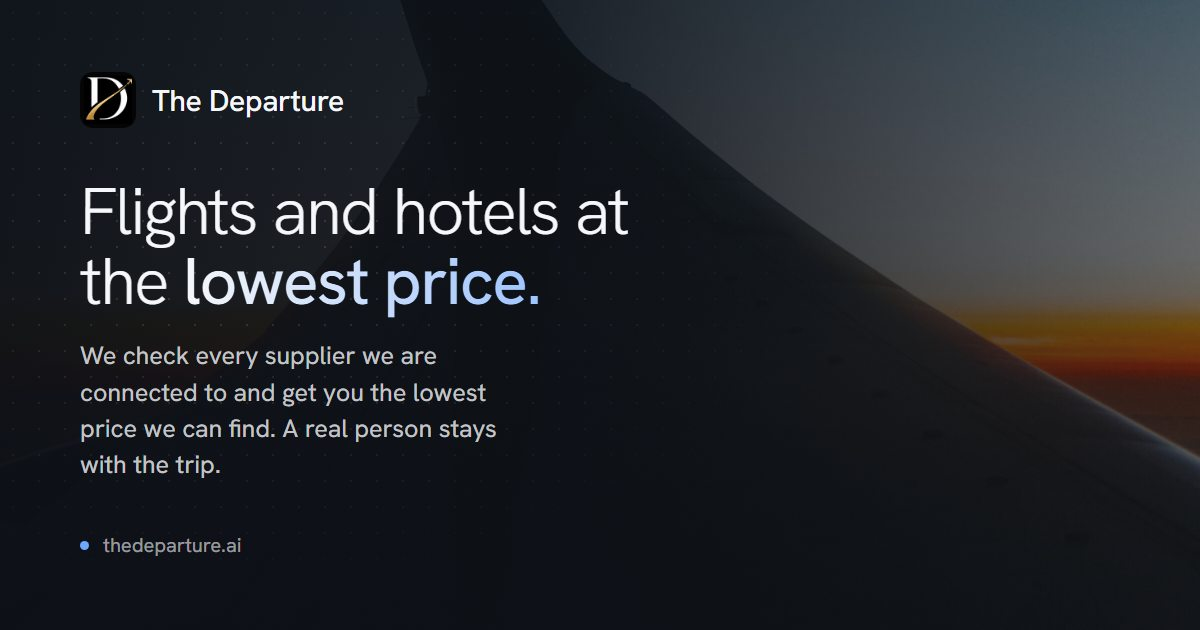
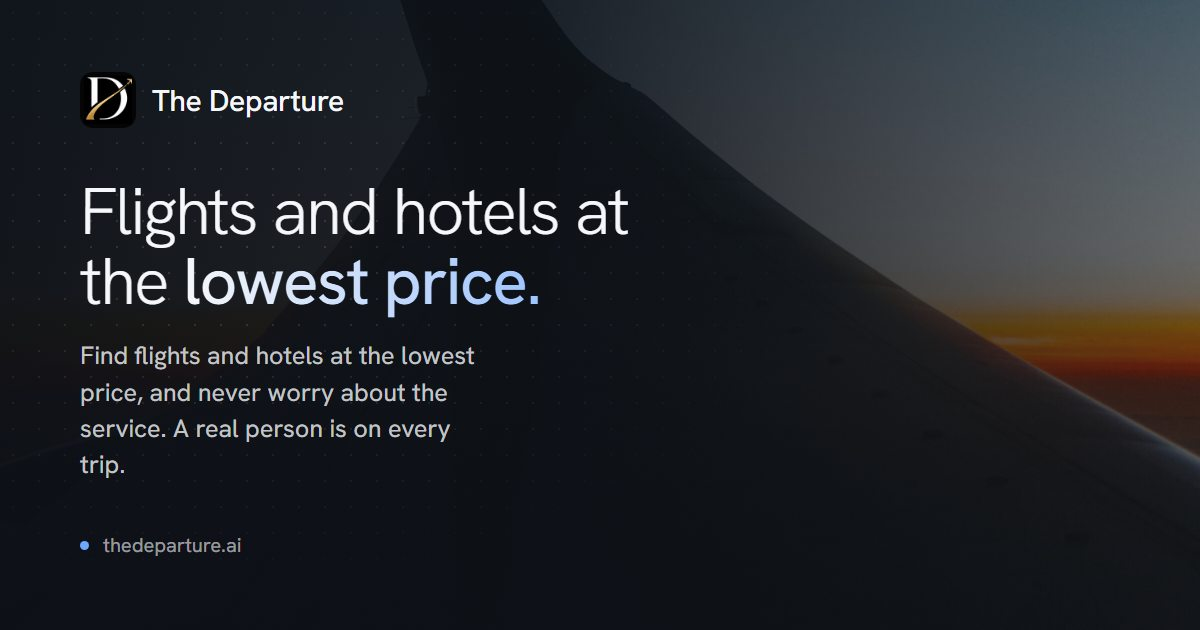
Never cache a failed supplier lookup, and rewrite the share preview text
The landing said "No live rates right now" while /results returned twelve
hotels for the same city, the same dates and the same key. Nothing was wrong
with LiteAPI. The showcase had cached the emptiness.

Each cached function caught its own errors INSIDE unstable_cache and returned
an empty list. unstable_cache stores whatever the function returns, so a single
transient miss was written to the cache and then served to every visitor for
the full TTL: fifteen minutes for the headline rows and six hours for the
destination prices. Vercel's data cache survives deployments, so redeploying
did not clear it either.

Now the fetch throws on an empty result and the catch lives outside the cache,
so failures are never written and the next visitor retries. Success is still
cached, which is the part that actually protects LiteAPI's look-to-book ratio:
there is no ratio to protect when the answer is empty.

CACHE_VERSION is in every key so this fix takes effect on deploy instead of
waiting out the poisoned entries it was written to fix.

Destination prices now catch per card rather than per row, so one city with no
fare cannot blank the other two.

Share preview text rewritten to lead with the promise rather than the
mechanism: "Find flights and hotels at the lowest price, and never worry about
the service. A real person is on every trip." Card image regenerated to match,
54KB.

Changed region(s): [[0.0617, 0.5429, 0.4317, 0.6937], [0.0617, 0.7238, 0.185, 0.754]]

diff --git a/lib/showcase.ts b/lib/showcase.ts
@@ -23,6 +23,15 @@ function isoDaysOut(days: number): string {
   return new Date(Date.now() + days * 864e5).toISOString().slice(0, 10);
 }
 
+const HOTEL_ADULTS = 2;
+
+function nightsBetween(checkin: string, checkout: string): number {
+  return Math.max(
+    1,
+    Math.round((new Date(checkout).getTime() - new Date(checkin).getTime()) / 864e5)
+  );
+}
+
 export interface ShowcaseFlights {
   route: { from: string; to: string; date: string };
   flights: ShoppedFlight[];
@@ -44,35 +53,58 @@ export interface ShowcaseHotels {
   error?: string;
 }
 
+// A failure must never be cached.
+//
+// These wrappers used to catch inside the cached function and return an empty
+// list. unstable_cache stores whatever the function returns, so one transient
+// supplier hiccup was written to the cache and then served to every visitor for
+// the whole TTL: fifteen minutes for the headline rows, SIX HOURS for the
+// destination prices. That is exactly how the landing page ended up saying "No
+// live rates right now" while /results returned twelve hotels for the same city
+// and dates.
+//
+// Throwing instead means nothing is written and the next visitor retries. The
+// cost is that a genuine outage is re-queried per request rather than once per
+// TTL. That is the right way round: LiteAPI's look-to-book ratio is protected
+// by caching SUCCESS, and there is no ratio to protect when the answer is
+// empty.
+class NoResults extends Error {}
+
+// Bumping this abandons every existing entry immediately. Vercel's data cache
+// survives deployments, so without it the poisoned entries above would keep
+// being served until their own TTL expired, fix deployed or not.
+const CACHE_VERSION = "v2";
+
+function reason(e: unknown): string {
+  return e instanceof NoResults ? e.message : String((e as Error)?.message || e);
+}
+
 const cachedFlights = unstable_cache(
   async (from: string, to: string, date: string, currency: string): Promise<ShowcaseFlights> => {
-    try {
-      const res = await shopFlights({
-        origin: from,
-        destination: to,
-        departDate: date,
-        adults: 1,
-        cabin: "economy",
-        currency,
-      });
-      return {
-        route: { from, to, date },
-        flights: res.flights.slice(0, 3),
-        supplierCount: res.queried,
-        liveSuppliers: res.suppliers.filter((s) => s.live).map((s) => s.name),
-        error: res.errors.length ? res.errors.map((e) => `${e.supplier}: ${e.message}`).join(" · ") : undefined,
-      };
-    } catch (e) {
-      return {
-        route: { from, to, date },
-        flights: [],
-        supplierCount: 0,
-        liveSuppliers: [],
-        error: String((e as Error).message || e),
-      };
+    const res = await shopFlights({
+      origin: from,
+      destination: to,
+      departDate: date,
+      adults: 1,
+      cabin: "economy",
+      currency,
+    });
+    if (res.flights.length === 0) {
+      throw new NoResults(
+        res.errors.length
+          ? res.errors.map((e) => `${e.supplier}: ${e.message}`).join(" · ")
+          : "No fares returned."
+      );
     }
+    return {
+      route: { from, to, date },
+      flights: res.flights.slice(0, 3),
+      supplierCount: res.queried,
+      liveSuppliers: res.suppliers.filter((s) => s.live).map((s) => s.name),
+      error: res.errors.length ? res.errors.map((e) => `${e.supplier}: ${e.message}`).join(" · ") : undefined,
+    };
   },
-  ["showcase-flights"],
+  ["showcase-flights", CACHE_VERSION],
   { revalidate: SHOWCASE_TTL, tags: ["showcase"] }
 );
 
@@ -84,74 +116,77 @@ const cachedHotels = unstable_cache(
     checkout: string,
     currency: string
   ): Promise<ShowcaseHotels> => {
-    const adults = 2;
-    const nights = Math.max(
-      1,
-      Math.round((new Date(checkout).getTime() - new Date(checkin).getTime()) / 864e5)
-    );
-    try {
-      const res = await shop({
-        city,
-        countryCode: country,
-        checkin,
-        checkout,
-        occupancies: [{ adults }],
-        currency,
-        guestNationality: country,
-      });
-      return {
-        city,
-        hotels: res.hotels.slice(0, 3),
-        supplierCount: res.queried,
-        liveSuppliers: res.suppliers.filter((s) => s.live).map((s) => s.name),
-        nights,
-        adults,
-      };
-    } catch (e) {
-      return {
-        city,
-        hotels: [],
-        supplierCount: 0,
-        liveSuppliers: [],
-        nights,
-        adults,
-        error: String((e as Error).message || e),
-      };
-    }
+    const res = await shop({
+      city,
+      countryCode: country,
+      checkin,
+      checkout,
+      occupancies: [{ adults: HOTEL_ADULTS }],
+      currency,
+      guestNationality: country,
+    });
+    if (res.hotels.length === 0) throw new NoResults("No rates returned for these dates.");
+    return {
+      city,
+      hotels: res.hotels.slice(0, 3),
+      supplierCount: res.queried,
+      liveSuppliers: res.suppliers.filter((s) => s.live).map((s) => s.name),
+      nights: nightsBetween(checkin, checkout),
+      adults: HOTEL_ADULTS,
+    };
   },
-  ["showcase-hotels"],
+  ["showcase-hotels", CACHE_VERSION],
   { revalidate: SHOWCASE_TTL, tags: ["showcase"] }
 );
 
 const cachedDestination = unstable_cache(
   async (from: string, to: string, date: string, currency: string) => {
-    try {
-      const res = await shopFlights({
-        origin: from,
-        destination: to,
-        departDate: date,
-        adults: 1,
-        cabin: "economy",
-        currency,
-      });
-      const best = res.flights[0];
-      return best ? { sell: best.best.priced.sell, currency: best.best.priced.currency } : null;
-    } catch {
-      return null;
-    }
+    const res = await shopFlights({
+      origin: from,
+      destination: to,
+      departDate: date,
+      adults: 1,
+      cabin: "economy",
+      currency,
+    });
+    const best = res.flights[0];
+    // Null here would be cached for six hours, so a momentary blank turns into
+    // "search fares" on the destination cards for the rest of the afternoon.
+    if (!best) throw new NoResults("No fare returned.");
+    return { sell: best.best.priced.sell, currency: best.best.priced.currency };
   },
-  ["showcase-destination"],
+  ["showcase-destination", CACHE_VERSION],
   { revalidate: DEST_TTL, tags: ["showcase"] }
 );
 
 // Currency is part of the cache key, so switching it can't serve a cached page
 // still priced in the previous one.
-export function showcaseFlights(currency: string) {
-  return cachedFlights("DEL", "DXB", isoDaysOut(21), currency);
+export async function showcaseFlights(currency: string): Promise<ShowcaseFlights> {
+  const route = { from: "DEL", to: "DXB", date: isoDaysOut(21) };
+  try {
+    return await cachedFlights(route.from, route.to, route.date, currency);
+  } catch (e) {
+    return { route, flights: [], supplierCount: 0, liveSuppliers: [], error: reason(e) };
+  }
 }
 
-export function showcaseHotels(currency: string) {
-  return cachedHotels("Mumbai", "IN", isoDaysOut(30), isoDaysOut(33), currency);
+export async function showcaseHotels(currency: string): Promise<ShowcaseHotels> {
+  const city = "Mumbai";
+  const checkin = isoDaysOut(30);
+  const checkout = isoDaysOut(33);
+  try {
+    return await cachedHotels(city, "IN", checkin, checkout, currency);
+  } catch (e) {
+    return {
+      city,
+      hotels: [],
+      supplierCount: 0,
+      liveSuppliers: [],
+      nights: nightsBetween(checkin, checkout),
+      adults: HOTEL_ADULTS,
+      error: reason(e),
+    };
+  }
 }
 
 export interface DestinationCard {
@@ -175,8 +210,12 @@ const DESTINATIONS = [
 
 export async function destinationCards(currency: string, origin = "DEL"): Promise<DestinationCard[]> {
   const date = isoDaysOut(28);
+  // Per card, not per row: one destination with no fare must not blank the
+  // other two, and its miss must not be cached.
   const prices = await Promise.all(
-    DESTINATIONS.map((d) => cachedDestination(origin, d.code, date, currency))
+    DESTINATIONS.map((d) =>
+      cachedDestination(origin, d.code, date, currency).catch(() => null)
+    )
   );
   return DESTINATIONS.map((d, i) => ({ ...d, from: origin, price: prices[i] }));
 }

diff --git a/app/layout.tsx b/app/layout.tsx
@@ -16,9 +16,9 @@ const SITE = "https://thedeparture.ai";
 //
 // og:description is deliberately short. WhatsApp shows about two lines before
 // truncating, so the claim has to survive being cut off.
-const SHARE_TITLE = "Flights and hotels at the lowest price";
+const SHARE_TITLE = "The Departure · Flights and hotels at the lowest price";
 const SHARE_DESC =
-  "The lowest price we can find on flights and hotels, and a real person on every trip.";
+  "Find flights and hotels at the lowest price, and never worry about the service. A real person is on every trip.";
 
 export const metadata: Metadata = {
   metadataBase: new URL(SITE),
